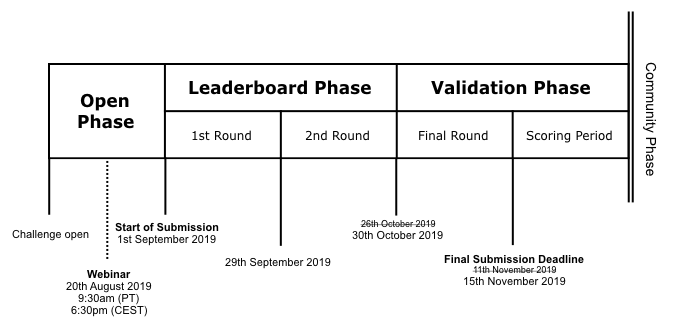
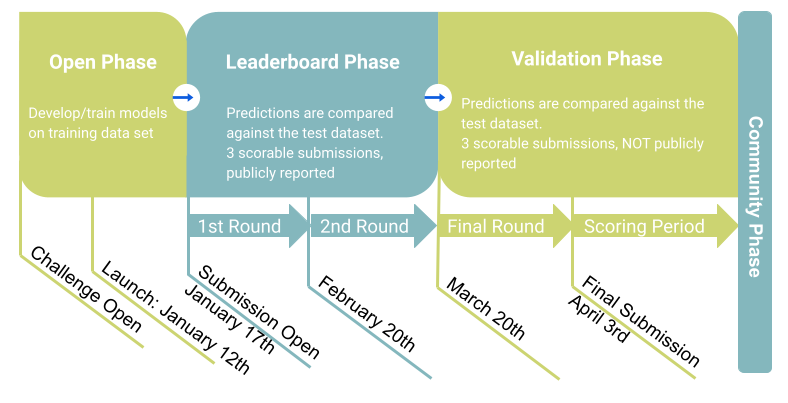
Update Overview page with info from Google doc

diff --git a/index.md b/index.md
@@ -9,62 +9,49 @@ permalink: /
 ![Banner](assets/images/overview/banner_draft.png)
 
 ## Overview
-Signaling underlines nearly every cellular event. Individual cells, even if genetically identical, respond to perturbation in different ways. This underscores the relevance of cellular heterogeneity, in particular in how cells respond to drugs. This is of high relevance since the fact that a subset of cells do not respond (or only weakly) to drugs can render this drug an ineffective treatment. In spite of its relevance to many diseases, comprehensive studies on the heterogeneous signaling in single cells are still lacking.
-
-We have generated the, to our knowledge, currently largest single cell signaling dataset on a panel of 67 well-characterized breast cancer cell lines by mass cytometry (3’015 conditions, ~80 mio single cells, 38 markers; Bandura et al. 2009; Bendall et al., 2011; Bodenmiller et al., 2012; Lun et al., 2017; Lun et al., 2019). These cell lines are, among others, also characterized at the genomic, transcriptomic, and proteomic level (Marcotte et al., 2016).
-
-We ask the community to use these measurements to predict the signaling responses of the cell lines to drug treatment at the single-cell level. Firstly, we ask to predict certain markers in specific single cells. Secondly, we ask to predict the time-dependent response of single cells upon treatment with drugs. Finally, we aim to predict the time-dependent response of cell lines for which only static, unperturbed data is given.
-
-The methods developed to answer these questions will allow us to better understand the determinants that control single-cell signaling, the heterogeneity in drug response of cancer cells, and to push the limits of signaling modeling.
-
-![Figure 1. Single cell perturbation experimental setup overview. Schematic representation of the perturbation experiment.](assets/images/overview/figure1.jpg)
-_Figure 1. Single cell perturbation experimental setup overview. Schematic representation of the perturbation experiment._
-
-![Figure 2. Challenge questions](assets/images/overview/figure2_challenge_question_summary.png)
-_Figure 2. Challenge questions_
+Main points to cover: Paediatric cancer, focusing on Neuroblastoma, organoids as cancer models, drug response/treatments
 
 ## Timeline
-The Challenge will consist of three phases: open/training, leaderboard, and validation.
+The Challenge will consist of 3 phases: open/training, leaderboard, and validation.
 
-During the **open/training** phase, participants will develop and train their models on the training data set. We welcome submissions based on new or published methods and the integration of prior knowledge about the protein interaction network or other types of biological knowledge. No scores will be reported during this phase.
+During the **open/training phase**, participants will develop and train their models on the training data set. We welcome submissions based on new or published methods and the integration of any type of biological knowledge. No scores will be reported during this phase.
 
-During the **leaderboard phase**, submitted single-cell predictions will be compared against the test dataset and scores will be reported on a public leaderboard. For each question/sub-question an associated and paired ground truth will be used to evaluate the predictions. Participants will have an opportunity to improve their models after each leaderboard round for a maximum of three scorable submissions per round.
+During the **leaderboard phase**, submitted predictions/models will be compared against the test dataset and scores will be reported on a public leaderboard. For each <span style="color:orange;font-weight:bold">question/sub-question</span> an associated and paired ground truth will be used to evaluate the predictions. Participants will have an opportunity to improve their models after each leaderboard round for a maximum of three scorable submissions per round.
+These submissions will NOT be considered for the final scoring.
 
-During the **validation phase**, submitted predictions will be compared against the test dataset. Scores will NOT be reported on the public leaderboard and will NOT reported in the emails. Participants can submit a maximum of three scorable submissions, we will consider the LAST submission as the final one. Models will be ranked according to their scores and top performers will be announced for each subchallenge.
+During the **validation phase**, submitted predictions will be compared against the test dataset. Scores will NOT be reported on the public leaderboard, but they will be reported by email. Participants can submit a maximum of three scorable submissions, and the LAST submission will be considered as the final one. We will consider the LAST submission as the final one. If you want to use the last submission from the leaderboard phase, please submit it again. Models will be ranked according to their scores and top performers will be announced for each <span style="color:orange;font-weight:bold">subchallenge</span>. Predictions MUST be completed with a writing up of the method and the code SHOULD be available.
 
 ![Figure3. Challenge timeline](assets/images/overview/time_line_updated.png)
 _Figure 3. Challenge timeline_
 
 | Milestone | Date |
 | --------- | ---- |
-| Registration Opens | August 2019 |
-| Launch | August 20, 2019 |
-| Submission Opens | 1st September, 2019 |
-| Submission Closes | 15th November, 2019 |
-| Winners Announced | TBD |
+| Registration Opens | December 2021 |
+| Launch | 12th January 2022 |
+| Submission Opens | 17th January 2022 |
+| Submission Closes | 3rd April 2022 |
+| Winners Announced | TBA |
 
 ## Data Contributors
-The single-cell phosphoproteomics data and the proteomics data was provided by the [Bodenmiller group, University of Zurich](https://www.dqbm.uzh.ch/en/research/groups/bodenmiller.html) and [Picotti group, ETH Zurich](https://imsb.ethz.ch/research/picotti.html), respectively.
-
-The RNA-seq, CNV, and SNP data are published data (Marcotte et al., 2016).
+The RNA-seq neuroblastoma organoids data and drug screen data was provided by the [Molenaar group, Princess Máxima Center](https://research.prinsesmaximacentrum.nl/en/research-groups/molenaar-group).
 
 ## Journal Partners
-We are pleased to announce that Nature Biotechnology supports the submission of an overview paper describing the " DREAM Single Cell Signaling in Breast Cancer Challenge" and broadly applicable insights that emerge from it. Publication in Nature Biotechnology will be contingent on a standard evaluation process including editorial assessment and peer review. Challenge participants' authorship in the resulting paper follows the guidelines given in the DREAM Principles.
+TBA
 
 ## Incentives
 ### Manuscript Authorship
 The top-performing teams will be invited to participate in the manuscript design and writing and will therefore be eligible for byline authorship. The author order will be determined by the organizers based on contribution to the final manuscript.
 
-All individuals that participate in the Challenge and provide a complete final submission (including a method write up and code under an open source license) will be asked to be part of the Single Cell Signaling in Breast Cancer DREAM Consortium. The Consortium will be listed as a co-author on a manuscript describing the Challenge results.
+All individuals that participate in the Challenge and provide a complete final submission (including a method write up and code under an open source license) will be asked to be part of the <span style="color:orange">Cell-lines to Organoids DREAM Consortium</span>. The Consortium will be listed as a co-author on a manuscript describing the Challenge results.
 
 ### Competitive Phase
-The Competitive Phase consists of four subchallenges, which are described in the Challenge Questions Section. One top-performing team will be identified for each of these subchallenges, with results posted on the leaderboard.
+The Competitive Phase consists of two subchallenges, which are described in the Challenge Questions Section. One top-performing team will be identified for each of these subchallenges, with results posted on the leaderboard.
 
 ### Community Phase
-The top-performing teams might be invited to participate in a Community Phase of the Challenge. Additionally, the challenge organizers may invite teams to participate in the Community Phase at their discretion (e.g., teams with methods that are particularly novel or that perform well in quantifying one or more particular phenotypes and/or subchallenges).
+The top-performing teams might be invited to participate in a Community Phase of the Challenge. Additionally, the challenge organizers may invite teams to participate in the Community Phase at their discretion (e.g., teams with methods that are particularly novel or that perform well in the subchallenges).
 
 ### DREAM Conference
-The challenge organizers will invite representatives from the top-performing teams in each subchallenge, and others at their discretion, to present at the DREAM track of the DREAM Conference or the RECOMB Conference; travel support might be provided on behalf of the Challenge Organizers if available.
+The challenge organizers will invite representatives from the top-performing teams in each subchallenge, and others at their discretion, to present at the DREAM track of the DREAM Conference or the RECOMB Conference.
 
 **NOTE:** Byline authorship, DREAM Conference invitation, and any additional awards are predicated on final models performing better than the published baseline models. Employees, contractors, students, or agents of any of the challenge organizers and anyone who had access to any or all of the validation/scoring dataset not previously made public are ineligible for challenge participation and will be disqualified from the challenge and any related incentives.
 
@@ -72,14 +59,24 @@ The challenge organizers will invite representatives from the top-performing tea
 
 | Name | Institution | Role |
 |------|-------------|------|
-| [Marco Tognetti](https://imsb.ethz.ch/research/picotti/PeoplePicotti/marco-tognetti.html) | University Zurich & ETH Zurich | Challenge Organisation |
-| [Bernd Bodenmiller](https://www.dqbm.uzh.ch/en/research/groups/bodenmiller.html) | University Zurich | Challenge Organisation |
-| [Attila Gabor](http://saezlab.org/person/attila-gabor/) | Heidelberg University | Challenge Organisation |
-| [Julio Saez-Rodriguez](http://saezlab.org/) | Heidelberg University | Challenge Organisation |
-| [Paola Picotti](https://imsb.ethz.ch/research/picotti/PeoplePicotti/paola-picotti.html) | ETH Zurich | Challenge Organisation |
-| Verena Chung | Sage Bionetworks | Challenge Infrastructure |
-| Thomas Yu | Sage Bionetworks | Challenge Infrastructure |
-| Julie Bletz | Sage Bionetworks | Challenge Infrastructure |
+| Sander van Hooff | [Princess Máxima Center](https://www.prinsesmaximacentrum.nl/en) | Challenge Organisation |
+| Jan Molenaar | [Princess Máxima Center](https://www.prinsesmaximacentrum.nl/en) | Challenge Organisation |
+| Qing Zhong | [Children’s Medical Research Institute](https://www.cmrijeansforgenes.org.au/) | Challenge Organisation |
+| Phil Robinson | [Children’s Medical Research Institute](https://www.cmrijeansforgenes.org.au/) | Challenge Organisation |
+| Heinz Köeppl | [Technical Darmstadt University](https://www.etit.tu-darmstadt.de/) | Challenge Organisation |
+| [Rosa Hernansaiz-Ballesteros](https://saezlab.org/person/rosa-hernansaiz-ballesteros/) | [Heidelberg University](https://www.uni-heidelberg.de/en) | Challenge Organisation |
+| [Attila Gabor](http://saezlab.org/person/attila-gabor/) | [Heidelberg University](https://www.uni-heidelberg.de/en) | Challenge Organisation |
+| [Julio Saez-Rodriguez](https://saezlab.org/person/julio-saez-rodriguez/) | [Heidelberg University](https://www.uni-heidelberg.de/en) | Challenge Organisation |
+| Mario Failli | [Telethon Institute of Genetics and Medicine (TIGEM)](https://www.tigem.it/) | Challenge Organisation |
+| Diego di Bernardo | [Telethon Institute of Genetics and Medicine (TIGEM)](https://www.tigem.it/) | Challenge Organisation |
+| Jannis Born | [IBM Research Zurich](https://www.zurich.ibm.com/) | Challenge Organisation |
+| Nikita Janakarajan | [IBM Research Zurich](https://www.zurich.ibm.com/) | Challenge Organisation |
+| Maria Rodriguez Martinez | [IBM Research Zurich](https://www.zurich.ibm.com/)) | Challenge Organisation |
+| [Asier Gonzalez-Uriarte](https://www.bsc.es/gonzalez-uriarte-asier) | [Barcelona Supercomputer Center](https://www.bsc.es/) | Challenge Infrastructure |
+| [Laura Portell Silva](https://www.bsc.es/portell-silva-laura) | [Barcelona Supercomputer Center](https://www.bsc.es/) | Challenge Infrastructure |
+| [Alejandro Canosa](https://www.bsc.es/canosa-alejandro) | [Barcelona Supercomputer Center](https://www.bsc.es/) | Challenge Infrastructure |
+| [Laura Rodriguez](https://www.bsc.es/rodriguez-navas-laura) | [Barcelona Supercomputer Center](https://www.bsc.es/) | Challenge Infrastructure |
+| [Salvador Capella](https://www.bsc.es/capella-gutierrez-salvador) | [Barcelona Supercomputer Center](https://www.bsc.es/) | Challenge Infrastructure |
 
 ## Acknowledgements
 The organisers appreciate the help and feedback from [Jovan Tanevski](http://saezlab.org/person/jovan-tanevski/), [Bence Szalai](https://www.linkedin.com/in/bence-szalai-ba403878/?locale=de_DE), [Ricardo Ramirez-Flores](http://saezlab.org/person/ricardo-o-ramirez-flores/), and [Natalie de Souza](https://imsb.ethz.ch/research/picotti/PeoplePicotti/natalie-de-souza.html) .
